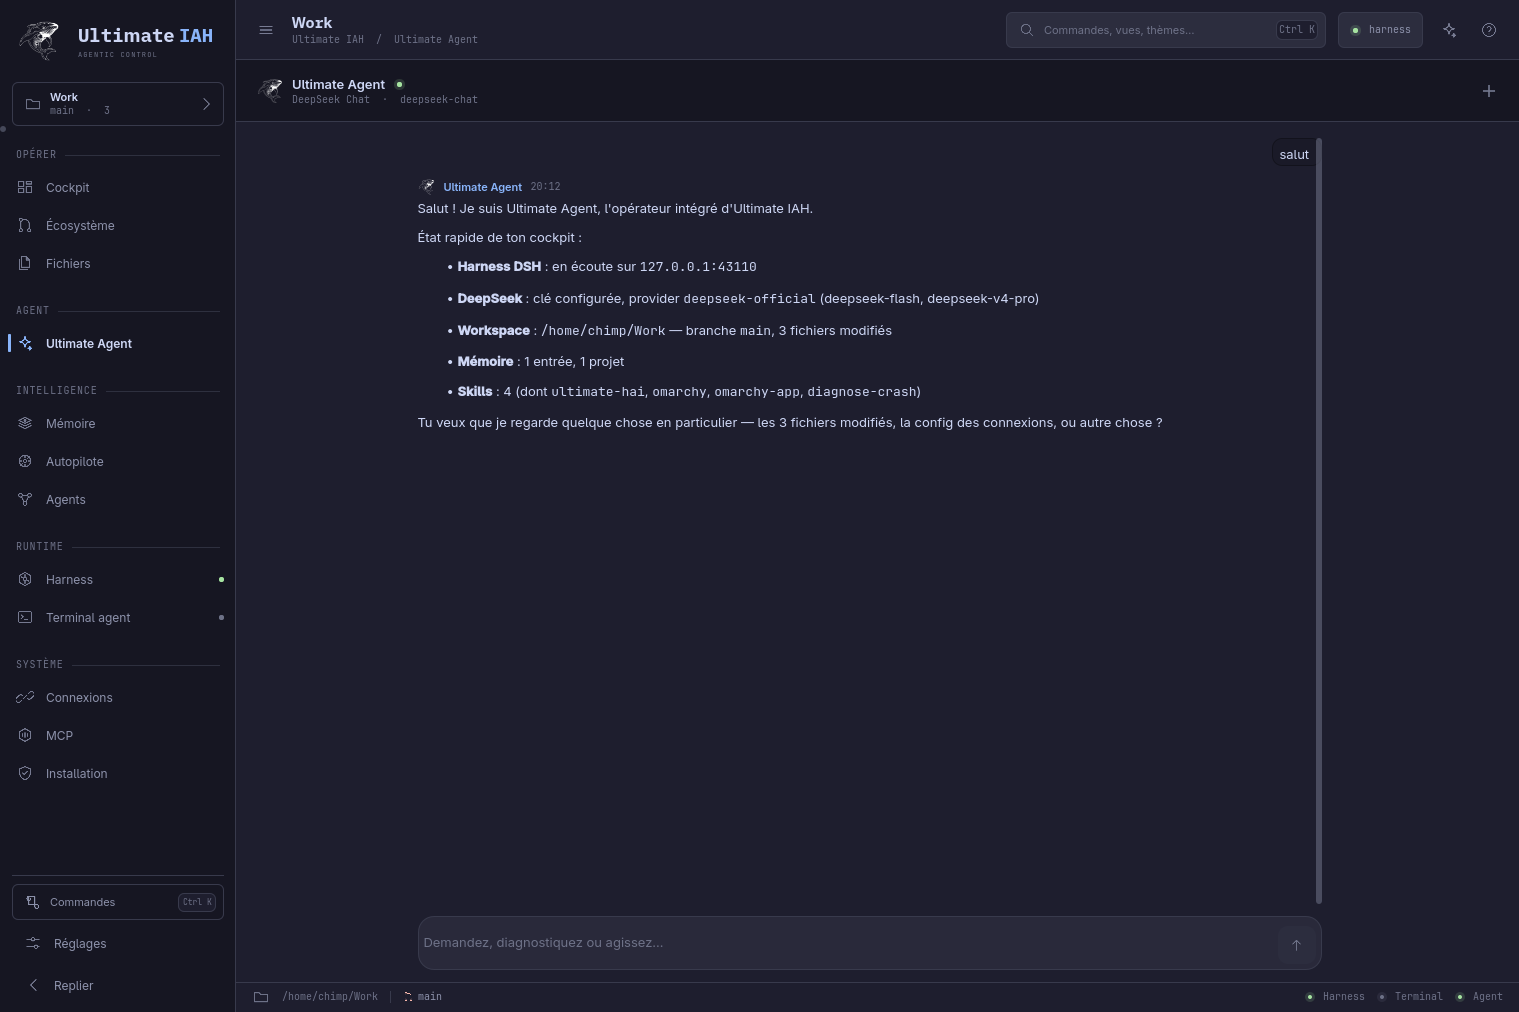
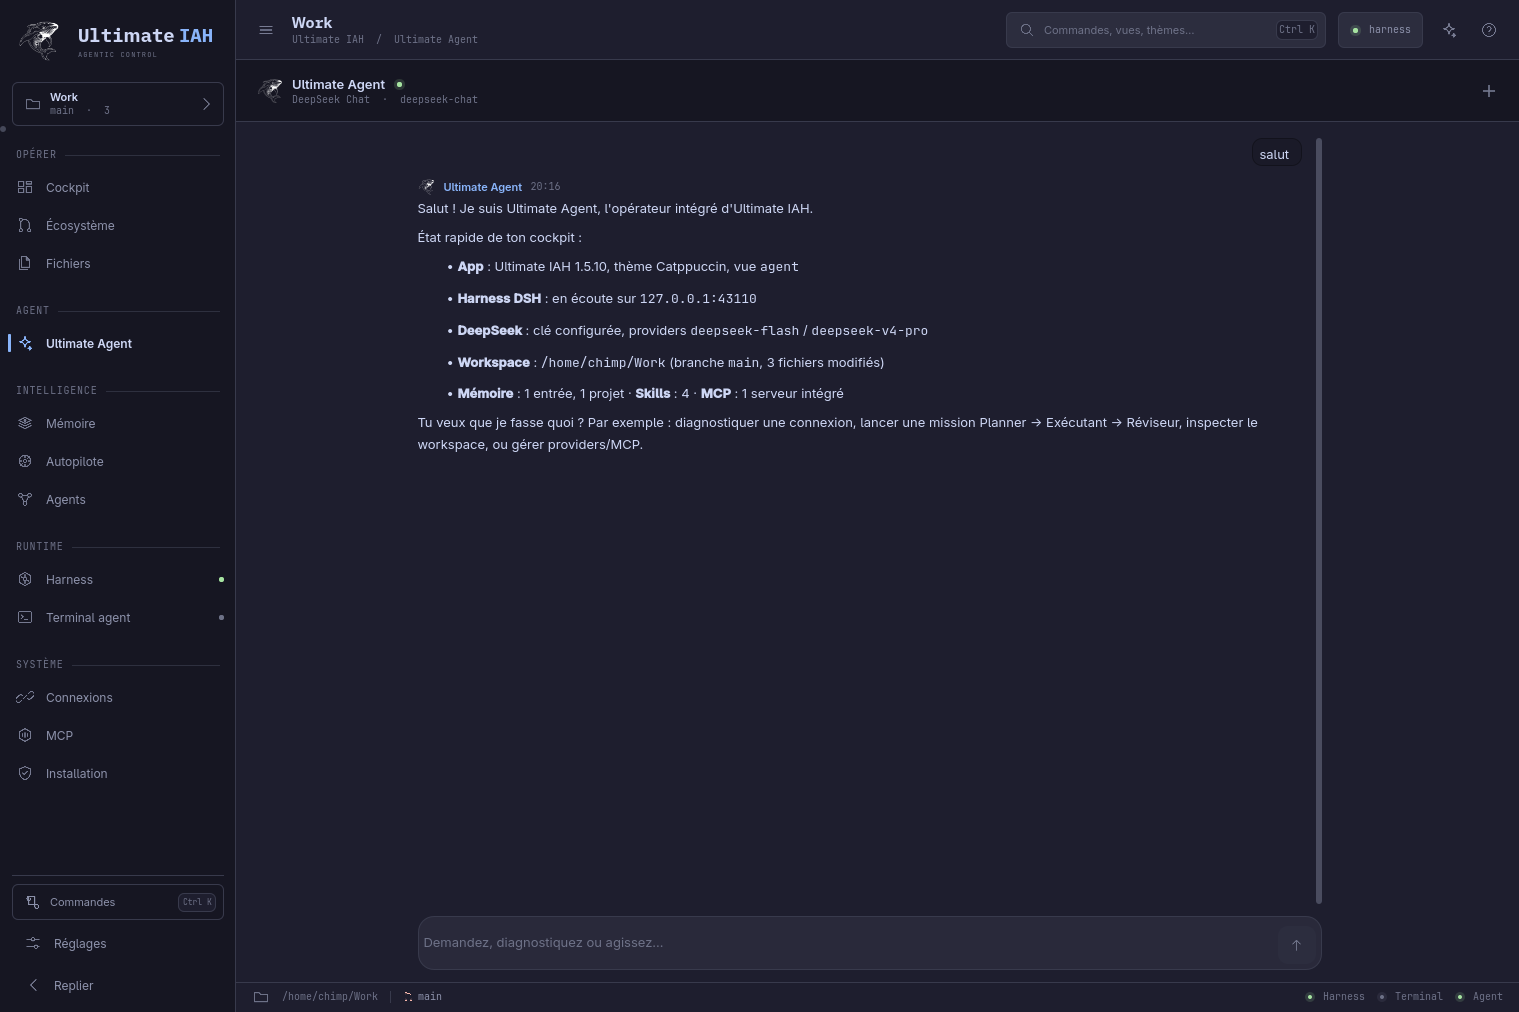
Keep message content clear of the scrollbar

Changed region(s): [[0.2785, 0.2451, 0.8045, 0.4595]]

diff --git a/src/UltimateAgentPane.qml b/src/UltimateAgentPane.qml
@@ -166,7 +166,7 @@ Item {
                 ScrollBar.vertical: AppScrollBar {}
 
                 delegate: Item {
-                    width: ListView.view.width
+                    width: ListView.view.width - design.space5
                     implicitHeight: messageBody.implicitHeight
 
                     ColumnLayout {

diff --git a/src/main.cpp b/src/main.cpp
@@ -213,7 +213,7 @@ int main(int argc, char *argv[]) {
     // stable config/data paths that hold the user's memory, providers and
     // integrations. The visible product is Ultimate IAH.
     QCoreApplication::setApplicationName(QStringLiteral("deepcrasy-h"));
-    QCoreApplication::setApplicationVersion(QStringLiteral("1.5.10"));
+    QCoreApplication::setApplicationVersion(QStringLiteral("1.5.11"));
     QCoreApplication::setOrganizationName(QStringLiteral("Crasy"));
 
     QStringList arguments;

diff --git a/README.md b/README.md
@@ -126,7 +126,7 @@ masqué pour éviter l'ancienne icône.
 ./bin/build
 ./bin/test
 cd pkgbuild && makepkg -f
-sudo pacman -U ultimate-hai-1.5.10-1-x86_64.pkg.tar.zst
+sudo pacman -U ultimate-hai-1.5.11-1-x86_64.pkg.tar.zst
 ```
 
 Le paquet remplace `deepcrasy-h`. Les données existantes sont conservées dans

diff --git a/docs/INSTALLATION.md b/docs/INSTALLATION.md
@@ -3,7 +3,7 @@
 ## Paquet système
 
 ```bash
-sudo pacman -U ultimate-hai-1.5.10-1-x86_64.pkg.tar.zst
+sudo pacman -U ultimate-hai-1.5.11-1-x86_64.pkg.tar.zst
 ```
 
 Le paquet dépend de Qt 6, QtWebEngine, Node.js, npm, Python, PyYAML, Git et
